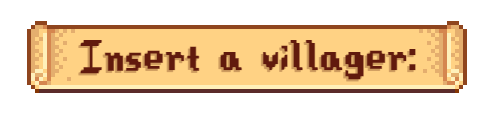
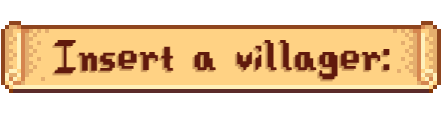
Insertar elemento pergamino pngs

Changed region(s): [[0.5282, 0.175, 0.9977, 0.775], [0.0, 0.175, 0.4989, 0.775]]

diff --git a/client/stardew-valley/src/app/add-element/add-element.component.html b/client/stardew-valley/src/app/add-element/add-element.component.html
@@ -1,18 +1,7 @@
 <div class="container">
-<<<<<<< HEAD
-    <form #vForm="ngForm" (ngSubmit) = "onSubmitFile()" class="p-4 rounded" style="background-color: rgb(255 255 255 / 75%);">
-      <img src="../../assets/upload-a-json-file.png">
-        <div class="row">
-            <div class="col">
-                <div class="row mb-3">
-                    <div class="col">
-                        <input type="file" class="form-control" id="inputJson" name="json" (change)="fileUploaded($event)">
-                        <div *ngIf="fileContent">
-                            <pre>{{ fileContent }}</pre>
-=======
-    <div class="formContainer">
+    <div class="formContainer mt-3">
         <form #vForm="ngForm" (ngSubmit) = "onSubmitFile()" class="p-4 rounded">
-            <h3>Upload a JSON file:</h3>
+          <img src="../../assets/upload-a-json-file.png">
             <div class="row">
                 <div class="col">
                     <div class="row mb-3">
@@ -21,16 +10,15 @@
                             <div *ngIf="fileContent">
                                 <pre>{{ fileContent }}</pre>
                             </div>
->>>>>>> c3e72b721c497ff06502afa7b1842c7d7ec0c691
                         </div>
                     </div>
                 </div>
             </div>
-            <button type="submit" class="btn btn-primary" style="background-color: rgb(231, 143, 172); border-color: rgb(231, 143, 172);">Add element(s)</button>
+            <button id="btn-add-element" type="submit">Add element(s)</button>
         </form>
     </div>
     
-    <form #vilForm="ngForm" (ngSubmit)= "villagerSubmit" class="p-4 rounded" style="background-color: rgb(255 255 255 / 75%);">
+    <form #vilForm="ngForm" (ngSubmit)= "villagerSubmit" class="formContainer mt-3 p-4 rounded" style="background-color: rgb(255 255 255 / 75%);">
       <img src="../../assets/insert-a-villager.png">
         <div class="mb-3">
             <label for="vilName" class="form-label">Name:</label>

diff --git a/client/stardew-valley/src/app/add-element/add-element.component.css b/client/stardew-valley/src/app/add-element/add-element.component.css
@@ -1,11 +1,10 @@
-
 .formContainer {
+    border: 1px solid transparent;
     border-image: url("https://stardewvalleywiki.com/mediawiki/extensions/StardewValley/images/menu_border.png");
     border-image-slice: 20;
     border-image-width: 20;
     border-image-outset: 5;
     border-image-repeat: round;
-    background-color: #ffa;
 }
 
 h2{
@@ -14,4 +13,9 @@ h2{
 
 #title{
     font-size: 10ch;
+}
+
+#btn-add-elemnt{
+    background-image: url("../../assets/add-element-s.png"); 
+    background-size: cover;
 }
